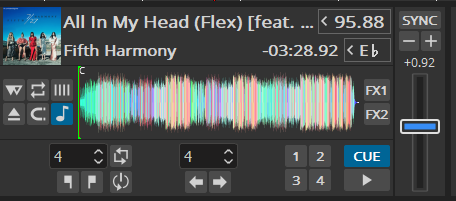
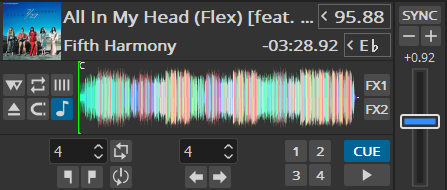
cut out unecessary artifacts from screenshots and reformatted some sections

diff --git a/source/chapters/user_interface.rst b/source/chapters/user_interface.rst
@@ -88,23 +88,23 @@ Track Information Display
             information.
 
 **Key**
-  The key displays the current musical key of the loaded track after pitch shifting. The key is displayed below the BPM (Tempo). This is the same as the key that is shown under the :guilabel:`Key` column heading in the Mixxx library. If it is hidden, you can drag the horizontal scroll bar at the bottom of the Mixxx library section, to the right, and the column will show. 
-  Clicking the key will expand it to reveal more options: 
+  .. figure:: ../_static/2.2/key-options.png
+    :align: center
+    :width: 42%
+    :figwidth: 90%
+    :alt: The options displayed when you click on the Key
+    :figclass: pretty-figures
 
-  .. figure:: ../_static/2.2/key_options.png
-   :align: center
-   :width: 42%
-   :figwidth: 100%
-   :alt: The options displayed when you click on the Key
-   :figclass: pretty-figures
+    The Key options.
 
-   The Key options.
+The key displays the current musical key of the loaded track after pitch shifting. The key is displayed below the BPM (Tempo). This is the same as the key that is shown under the :guilabel:`Key` column heading in the Mixxx library. If it is hidden, you can drag the horizontal scroll bar at the bottom of the Mixxx library section, to the right, and the column will show.
+Clicking the key will expand it to reveal more options:
 
   * **Pitch Control**: This changes the track pitch independent of the tempo. Left-clicking the :guilabel:`-` button decreases the pitch by one semitone. Right-clicking it decreases the pitch by 10 cents. Left-clicking the :guilabel:`+` button increases the pitch by one semitone. Right-clicking it increases the pitch by 10 cents.
   * **Sync and Reset Key**: Left-clicking the :guilabel:`MATCH` button sets the key to a pitch that allows harmonic transition from the other track. It requires a detected key on both involved decks. Right-clicking it resets the key to the original track key.
 
 **Cover Art**
-  The cover art of the track loaded into the deck is displayed on the left side of the track. This is the same as the cover art that is shown under the :guilabel:`Cover Art` column heading in the Mixxx library. 
+  The cover art of the track loaded into the deck is displayed on the left side of the track. This is the same as the cover art that is shown under the :guilabel:`Cover Art` column heading in the Mixxx library.
   In Deere skin you can choose to enable or disable the cover art by clicking the gear icon in the upper right corner, then toggling the :menuselection:`Decks --> Cover Art` option. Clicking on the cover art will expand it into a full blown image.
 
 .. _interface-waveform:
@@ -138,7 +138,7 @@ Shade skin provides only separate waveforms.
 In Deere skin you can select your preferred appearance by clicking the gear icon in the upper right corner,
 then toggling the :menuselection:`Skin Settings --> Parallel Waveforms` option.
 
-.. figure:: ../_static/2.2/deere-separate-waveforms.png 
+.. figure:: ../_static/2.2/deere-separate-waveforms.png
    :align: center
    :width: 100%
    :figwidth: 100%
@@ -231,13 +231,13 @@ the deck. Starting from the top-left and moving clockwise the buttons are as
 follows:
 
 **Slip Mode Toggle**
-  When active, the playback continues muted in the background during a loop, reverse, scratch, etc. 
+  When active, the playback continues muted in the background during a loop, reverse, scratch, etc.
   Once disabled, the audible playback will resume where the track would have been.
 
 **Repeat Mode Toggle**
   If enabled, the repeat mode will jump back to the beginning and continue
   playing when the track finishes.
-  
+
 **Beat-grid Adjust Button**
   Clicking this button adjusts the track beat-grid so that the current position
   is marked as a beat. This is useful if Mixxx was able to accurately detect the
@@ -401,31 +401,27 @@ Transport Controls
 
 .. figure:: ../_static/2.2/transport-controls.png
   :align: center
-  :width: 55px
+  :width: 80px
   :figwidth: 100%
   :alt: The transport controls of the deck
   :figclass: pretty-figures
 
   The transport controls of the deck
 
-**Fast-Rewind button**
- As long as the button is pressed, the track will play in reverse with
- increased speed. Right-clicking on the button will seek the play position to
- the beginning of the track.
+**Beatjump/ Loop Move Size**
+  You can type or use the arrow keys in the input box to select the number of beats to jump or move, with the Beatjump Forward/ Backward buttons.
 
-**Fast-Forward button**
- As long as the button is pressed, the track will play with increased speed.
- Right-clicking on the button will seek the play position to the end of the
- track.
+**Beatjump Forward button**
+  Left-clicking this button while the loop is inactive will make the track jump forward by the set number of beats.
+  Left-clicking this button while the loop is active will move the loop forward by the set number of beats.
+  Right-clicking this button while the loop is inactive will make the track jump forward by one beat.
+  Right-clicking this button while the loop is active will move the loop forward by one beat.
 
-**Reverse button**
- As the name suggests, this button plays a track backwards.
- Right-clicking on the button puts a track into reverse while being held,
- resumes the track and disables Slip mode when released. Useful to censor
- expletives on the fly, or simply as part of your mix.
-
-
- .. note:: Not all of these controls may be present in all skins anymore (like the Deere skin). However, they can still be mapped to keyboards and MIDI controllers. 
+**Beatjump Backward button**
+  Left-clicking this button while the loop is inactive will make the track jump backward by the set number of beats.
+  Left-clicking this button while the loop is active will move the loop backward by the set number of beats.
+  Right-clicking this button while the loop is inactive will make the track jump backward by one beat.
+  Right-clicking this button while the loop is active will move the loop backward by one beat.
 
 .. _interface-vc-mode:
 
@@ -437,8 +433,8 @@ Vinyl Control Mode and Cueing controls
 
 .. figure:: ../_static/2.2/vinyl-control-mode.png
    :align: center
-   :width: 20%
-   :figwidth: 90%
+   :width: 25%
+   :figwidth: 60%
    :alt: The Vinyl Control Mode and Cueing controls of a deck
    :figclass: pretty-figures
 
@@ -496,25 +492,24 @@ control rate changes also from your computer's keyboard, see the chapter
 :ref:`control-keyboard` for more information.
 
 **SYNC button**
+  * **Left-Click**: Changes the :term:`rate` of the track so that the :term:`BPM`
+    and :term:`phase` of the track matches the other deck.
+  * **Right-Click**: Only changes the :term:`rate` of the track to match the other
+    deck but does not adjust the :term:`phase`.
 
-* **Left-Click**: Changes the :term:`rate` of the track so that the :term:`BPM`
-  and :term:`phase` of the track matches the other deck.
-* **Right-Click**: Only changes the :term:`rate` of the track to match the other
-  deck but does not adjust the :term:`phase`.
+  Decks and samplers now pick which sync target to sync to on the fly. Decks can't
+  sync to samplers and samplers can only sync to decks. The sync target for
+  samplers is:
 
-Decks and samplers now pick which sync target to sync to on the fly. Decks can't
-sync to samplers and samplers can only sync to decks. The sync target for
-samplers is:
+  * The first deck (in numerical order) that is playing a track with a detected
+    beatgrid, and has a rate different than zero.
+  * The first deck (in numerical order) that has a track loaded with a detected
+    beatgrid, no matter if it is playing or stopped.
 
-* The first deck (in numerical order) that is playing a track with a detected
-  beatgrid, and has a rate different than zero.
-* The first deck (in numerical order) that has a track loaded with a detected
-  beatgrid, no matter if it is playing or stopped.
-
-So basically, if you sync a sampler and both deck 1 and deck 2 are playing a
-track with a beatgrid then deck 1 will win since numerically it is first. The
-sync targets for decks are chosen with the new master sync feature, see
-:ref:`master-sync` for more information.
+  So basically, if you sync a sampler and both deck 1 and deck 2 are playing a
+  track with a beatgrid then deck 1 will win since numerically it is first. The
+  sync targets for decks are chosen with the new master sync feature, see
+  :ref:`master-sync` for more information.
 
 **Pitch/Rate slider**
   The slider allows you to change the speed of the song, by default up to 10%
@@ -570,40 +565,38 @@ Loop Controls
 In this section of the Mixxx interface you can control (beat-)loops and set the
 loop points of a track.
 
-**Beatlooping Buttons**
-
-* **Instant loop**: The input box allows you to set any BeatLoop Size, each of which represents a different :term:`bar`
-  length. This value will set a loop of the defined
-  number of beats from the beat immediately following the current playback
-  position. If a loop is set, a loop overlay will be drawn on the
+**Beatloop size**
+  The input box allows you to set the size of the loop in beats to set with the Beatloop button. Changing this resizes the loop if the loop already matches the size.
+  If a loop is set, a loop overlay will be drawn on the
   :ref:`waveforms <interface-waveform>`.
-* **Double loop**: Clicking on the arrow pointing up will double the current loop's
+**Beatloop**
+  Left-clicking the Beatloop button starts a loop over the set number of beats. If quantize is enabled, it snaps to the nearest beat. This works for manually placed loops as well as automatic loops set by
+  the beatlooping buttons. Depending on the current status of the loop, the
+  loop overlay on the waveforms changes color. Right-clicking the Beatloop button temporarily enables a rolling loop over the set number of beats. Playback will resume where the track would have been if it had not entered the loop.
+**Double loop**
+  Clicking on the arrow pointing up will double the current loop's
   length up to 64 bars. The length of the loop overlay in the waveform will
   increase accordingly.
-* **Halve loop**: Clicking on the arrow pointing down will halve the current loop's
+**Halve loop**
+  Clicking on the arrow pointing down will halve the current loop's
   length down to 1/32 bars. The length of the loop overlay in the waveform will
   decrease accordingly.
-
-**Loop Buttons**
-
-* **Loop-In**: This button allows you to manually set the start point of a loop.
+**Loop-In**
+  This button allows you to manually set the start point of a loop.
   A loop-in marker is placed on the waveform indicating the position.
   If clicked when a loop was already set, it moves the start point of a loop
   to a new position.
-* **Loop-Out**: This button allows you to manually set the end point of a loop.
+**Loop-Out**
+  This button allows you to manually set the end point of a loop.
   A loop-out marker is placed on the waveform indicating the position. If
   clicked when a loop was already set, it moves the end point of a loop to a new
   position.
-* **Loop**: Also dubbed Reloop, this button toggles whether the loop is active
-  or not. This works for manually placed loops as well as automatic loops set by
-  the beatlooping buttons. Depending on the current status of the loop, the
-  loop overlay on the waveforms changes color.
-* **ReLoop**:
-  Temporarily sets up a rolling loop over the defined number of beats. 
-  Playback will resume where the track  would have been if it had not entered the loop.
+**Reloop**
+  Left-clicking this button toggles the current loop on or off. If the loop is ahead of the current position, looping will start when the loop is reached. This works only if the Loop-in and Loop-Out marker are set.
+  Right-clicking this button enables the loop, jumps to Loop-in marker and stops playback.
 
 .. hint:: If you are playing inside a loop and want to move the end point
-          beyond its current position in the track, click on the *Loop* button
+          beyond its current position in the track, click on the *Beatloop* button
           first and when the play position reaches the desired position, click
           on the Loop-Out button.
 
@@ -621,9 +614,9 @@ Hotcue Controls
    RJ Ryan <rryan@mixxx.org>
    S.Brandt <s.brandt@mixxx.org>
 
-.. figure:: ../_static/2.2/cue-controls.png
+.. figure:: ../_static/2.2/hot-cue-controls.png
    :align: center
-   :width: 59px
+   :width: 125px
    :figwidth: 100%
    :alt: The hotcue controls of the deck
    :figclass: pretty-figures
@@ -843,7 +836,7 @@ Headphone and Master Mix Controls
   If your sound card only has one gain knob that controls both the main output
   and the headphone output, then adjust the :guilabel:`Head Gain` knob in Mixxx
   to control the volume of your headphones without affecting your main output.
-  
+
  .. note:: Not all controls may be present in all skins anymore. However, these controls can be mapped to keyboards and MIDI controllers. See this `guide. <https://github.com/mixxxdj/mixxx/wiki/mixxxcontrols>`_
 
 .. _interface-pfl:
@@ -1189,4 +1182,3 @@ The features in detail:
 
 .. seealso:: For more information, go to the chapter
              :ref:`library-previewing-tracks`.
-
